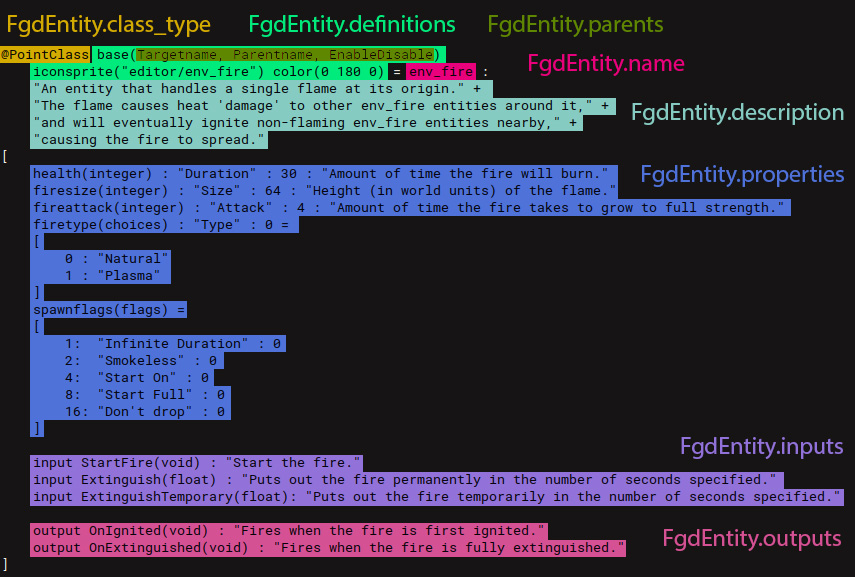
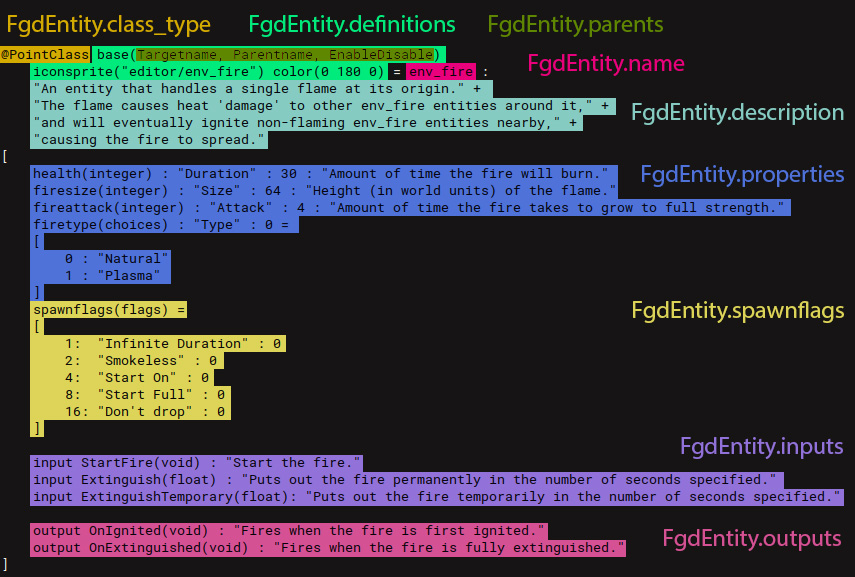
updated terminology charts

Changed region(s): [[0.0304, 0.4991, 0.3345, 0.7799], [0.7298, 0.5303, 1.0, 0.5615]]

diff --git a/README.md b/README.md
@@ -79,11 +79,15 @@ Here are some color coded charts for the terminology used in this library for fg
 ### FgdEntity
 ![alt text](https://github.com/maxdup/fgd-tools/raw/master/docs/source/_static/fgdentity.jpg "FgdEntity terminology")
 
+### FgdEntityInput/Output
+![alt text](https://github.com/maxdup/fgd-tools/raw/master/docs/source/_static/fgdentityio.jpg "FgdEntityInput/Output terminology")
+
 ### FgdEntityProperty
-![alt text](https://github.com/maxdup/fgd-tools/raw/master/docs/source/_static/fgdentityproperty.jpg "FgdEntity terminology")
+![alt text](https://github.com/maxdup/fgd-tools/raw/master/docs/source/_static/fgdentityproperty.jpg "FgdEntityProperty terminology")
 
 ### FgdEntityPropertyOption
-![alt text](https://github.com/maxdup/fgd-tools/raw/master/docs/source/_static/fgdentitypropertyoption.jpg "FgdEntity terminology")
+![alt text](https://github.com/maxdup/fgd-tools/raw/master/docs/source/_static/fgdentitypropertyoption.jpg "FgdEntityPropertyOption terminology")
 
-### FgdEntityInput/Output
-![alt text](https://github.com/maxdup/fgd-tools/raw/master/docs/source/_static/fgdentityio.jpg "FgdEntity terminology")
+### FgdEntitySpawnflag
+![alt text](https://github.com/maxdup/fgd-tools/raw/master/docs/source/_static/fgdentityspawnflags.jpg "FgdEntitySpawnflag terminology")
+

diff --git a/docs/source/quickstart.rst b/docs/source/quickstart.rst
@@ -85,6 +85,10 @@ FgdEntity
 ~~~~~~~~~
 .. image:: /_static/fgdentity.jpg
 
+FgdEntityInput/Output
+~~~~~~~~~~~~~~~~~~~~~
+.. image:: /_static/fgdentityio.jpg
+
 FgdEntityProperty
 ~~~~~~~~~~~~~~~~~
 .. image:: /_static/fgdentityproperty.jpg
@@ -93,6 +97,6 @@ FgdEntityPropertyOption
 ~~~~~~~~~~~~~~~~~~~~~~~
 .. image:: /_static/fgdentitypropertyoption.jpg
 
-FgdEntityInput/Output
-~~~~~~~~~~~~~~~~~~~~~
-.. image:: /_static/fgdentityio.jpg
+FgdEntitySpawnflag
+~~~~~~~~~~~~~~~~~
+.. image:: /_static/fgdentityspawnflags.jpg
